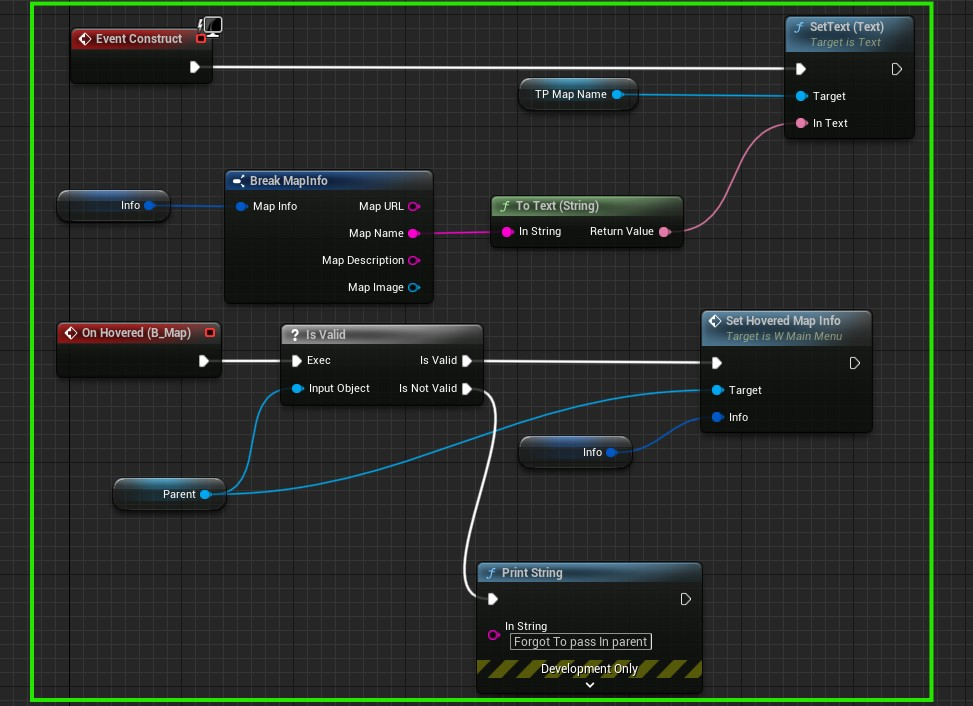
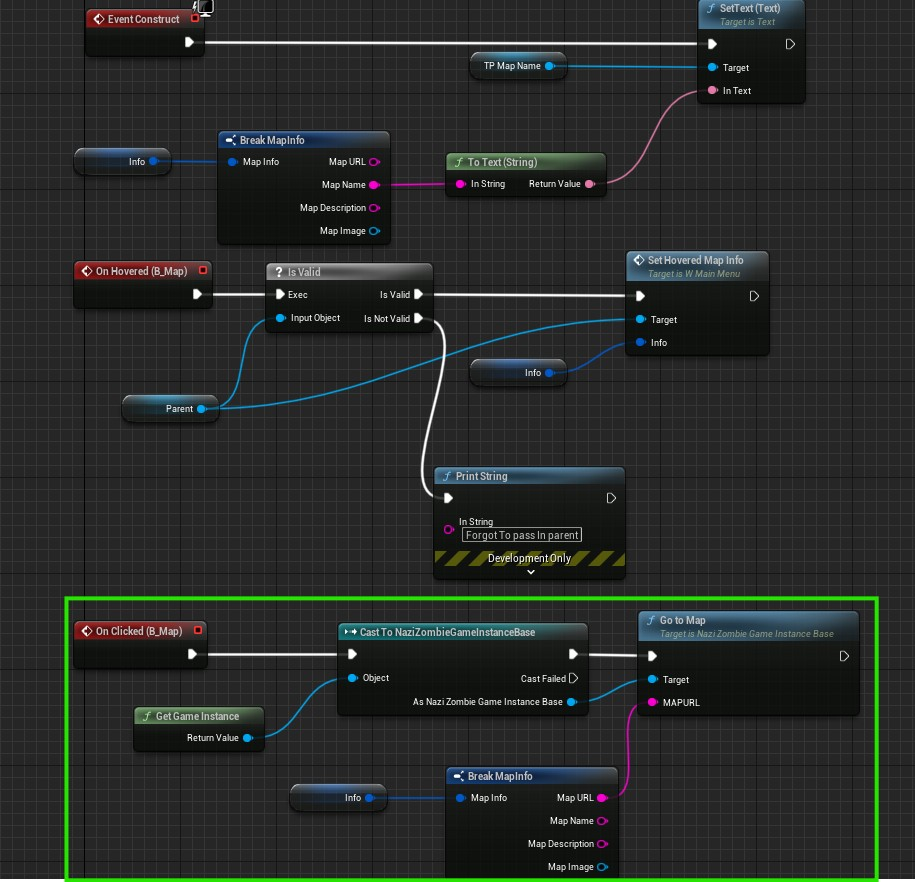
[Add] Map loading on clicking level button

Changed region(s): [[0.0, 0.0, 1.0, 1.0]]

diff --git a/NaziZombies/Source/NaziZombies/Private/NaziZombie/Game/NaziZombieGameInstanceBase.cpp b/NaziZombies/Source/NaziZombies/Private/NaziZombie/Game/NaziZombieGameInstanceBase.cpp
@@ -2,7 +2,13 @@
 
 
 #include "NaziZombie/Game/NaziZombieGameInstanceBase.h"
+#include "Engine/World.h"
 
 UNaziZombieGameInstanceBase::UNaziZombieGameInstanceBase()
 {
+}
+
+void UNaziZombieGameInstanceBase::GoToMap(FString MAPURL)
+{
+		GetWorld()->ServerTravel(MAPURL);
 }

diff --git a/NaziZombies/Source/NaziZombies/Public/NaziZombie/Game/NaziZombieGameInstanceBase.h b/NaziZombies/Source/NaziZombies/Public/NaziZombie/Game/NaziZombieGameInstanceBase.h
@@ -31,4 +31,9 @@ class NAZIZOMBIES_API UNaziZombieGameInstanceBase : public UGameInstance
 	GENERATED_BODY()
 public:
 	UNaziZombieGameInstanceBase();
+
+protected:
+	
+	UFUNCTION(BlueprintCallable)
+	void GoToMap(FString MAPURL);
 };
